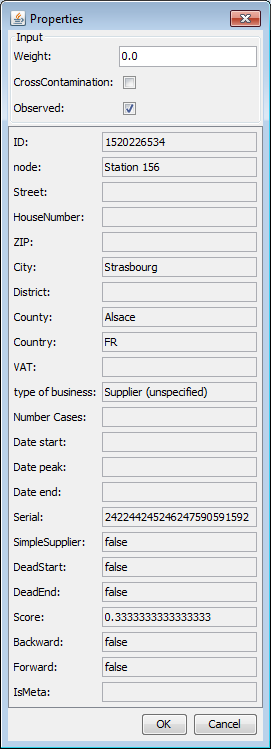
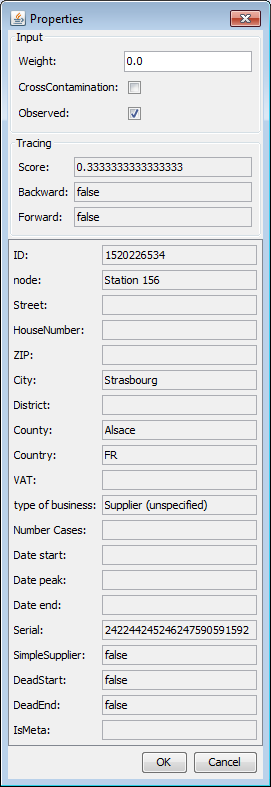
workflow_2_DE committed

Changed region(s): [[0.0, 0.0, 1.0, 0.9826]]

diff --git a/GitHubPages/documents/foodchainlab_workflow_2/workflow_2_DE.tex b/GitHubPages/documents/foodchainlab_workflow_2/workflow_2_DE.tex
@@ -1,0 +1,155 @@
+\documentclass{beamer}
+
+\usepackage[utf8]{inputenc}
+\usepackage{hyperref}
+
+\usetheme{Berkeley}
+\beamertemplatenavigationsymbolsempty
+\setbeamertemplate{headline}{}
+ 
+\title{Erstellen eines Workflows in FoodChain-Lab 2}
+\date{}
+ 
+\begin{document}
+\maketitle
+
+\section{Aufgaben}
+\begin{frame}
+	\begin{itemize}
+		\item Nutzen sie den \textbf{Tracing View} um das Liefernetz in einer übersichtlichen Art und Weise darzustellen.
+		\item Nutzen sie das \textbf{Default Highlighting} zur farblichen Visualisierung.
+		\item Visualisieren sie den Forward- und Backward-Trace von einer beliebigen Station.
+	\end{itemize}
+\end{frame}
+ 
+\section{1}
+\begin{frame}
+	\begin{center}
+  		\includegraphics[height=0.5\textheight]{1.png}
+	\end{center}
+	\begin{itemize}
+		\item Dies ist der zweite Teil des Tutorials.
+		\item Sie können den Workflow aus Teil 1 entweder selber erstellen oder hier herunterladen: \url{https://github.com/SiLeBAT/BfROpenLabResources/raw/master/GitHubPages/workflows/My_First_Workflow.zip}.
+		\item Machen sie einen Doppelklick auf den \textbf{Tracing View} um den Dialog zu öffnen.
+	\end{itemize}
+\end{frame}
+
+\section{2}
+\begin{frame}
+	\begin{center}
+  		\includegraphics[height=0.6\textheight]{2.png}
+	\end{center}
+	\begin{itemize}
+		\item Wenn sie den \textbf{Tracing View} zum ersten Mal öffnen, werden sie bemerken, dass sich die Stationen des Graphs bewegen. Dies liegt daran, dass der Layout-Prozess im Gange ist.
+	\end{itemize}
+\end{frame}
+
+\section{3}
+\begin{frame}
+	\begin{center}
+  		\includegraphics[height=0.6\textheight]{3.png}
+	\end{center}
+	\begin{itemize}
+		\item Wenn der Layout-Prozess beendet ist, wählen sie "TRANSFORMING" als \textbf{Editing Mode} and zoomen sie bis sie den ganzen Graph sehen können (Zoomen funktioniert wie in Google Maps).
+	\end{itemize}
+\end{frame}
+
+\section{4}
+\begin{frame}
+	\begin{center}
+  		\includegraphics[height=0.6\textheight]{4.png}
+	\end{center}
+	\begin{itemize}
+		\item Machen sie einen Rechtsklick in den Graph um das Kontextmenü zu öffnen und wählen sie \textbf{Set default Highlighting}.
+		\item Beim Highlighting werden bestimmte Attribute von Stationen/Lieferungen mit Hilfe von Farben und Größen visualisiert.
+	\end{itemize}
+\end{frame}
+
+\section{5}
+\begin{frame}
+	\begin{center}
+  		\includegraphics[width=0.9\textwidth]{5.png}
+	\end{center}
+	\begin{itemize}
+		\item Im Dialog wählen sie \textbf{Yes}.
+	\end{itemize}
+\end{frame}
+
+\section{6}
+\begin{frame}
+	\begin{center}
+  		\includegraphics[height=0.6\textheight]{6.png}
+	\end{center}
+	\begin{itemize}
+		\item Sie werden bemerken, dass drei Station nun rot gefärbt sind und manche Stationen größer sind als andere.
+		\item Die roten Stationen sind die Supermärkte, bei denen wir das Gewicht auf "1" gesetzt haben.
+		\item Die Größe jeder Station basiert nun auf ihrem "Score".
+	\end{itemize}
+\end{frame}
+
+\section{7}
+\begin{frame}
+	\begin{center}
+  		\includegraphics[height=0.6\textheight]{7.png}
+	\end{center}
+	\begin{itemize}
+		\item Aktivieren sie \textbf{Show Legend} um eine Legende für die benutzen Farben zu erhalten.
+	\end{itemize}
+\end{frame}
+
+\section{8}
+\begin{frame}
+	\begin{center}
+  		\includegraphics[height=0.6\textheight]{8.png}
+	\end{center}
+	\begin{itemize}
+		\item Nun können wir eine Station als "Observed" markieren um uns ihren Trace anzeigen zu lassen.
+		\item Setzen sie "PICKING" als \textbf{Editing Mode} and machen sie einen Doppelklick auf eine beliebige Station.
+		\item Wir haben auf die Station im roten Kreis geklickt.
+	\end{itemize}
+\end{frame}
+
+\section{9}
+\begin{frame}
+	\begin{center}
+  		\includegraphics[height=0.6\textheight]{9.png}
+	\end{center}
+	\begin{itemize}
+		\item Ein Dialog mit allen Attributen der gewählten Station erscheint.
+		\item Oben im Dialog können sie die Werte für "Weight", "Cross Contamination" und "Observed" verändern.		
+	\end{itemize}
+\end{frame}
+
+\section{10}
+\begin{frame}
+	\begin{center}
+  		\includegraphics[height=0.6\textheight]{10.png}
+	\end{center}
+	\begin{itemize}
+		\item Aktivieren sie \textbf{Observed} und klicken sie \textbf{OK}.
+	\end{itemize}
+\end{frame}
+
+\section{11}
+\begin{frame}
+	\begin{center}
+  		\includegraphics[height=0.6\textheight]{11.png}
+	\end{center}
+	\begin{itemize}
+		\item Alle Stationen vom Forward-Trace sind orange gefärbt and die Stationen vom Backward-Trace sind lila.
+		\item Die Lieferungen werden nicht gefärbt solange die Option \textbf{Join Deliveries} aktiviert ist.
+	\end{itemize}
+\end{frame}
+
+\section{12}
+\begin{frame}
+	\begin{center}
+  		\includegraphics[height=0.6\textheight]{12.png}
+	\end{center}
+	\begin{itemize}
+		\item Deaktivieren sie \textbf{Join Deliveries}, damit jede Lieferung als einzelner Pfeil dargestellt wird.
+		\item Nun sehen sie, dass auch die Lieferungen vom Forward-/Backward-Trace gefärbt sind.
+	\end{itemize}
+\end{frame}
+
+\end{document}

diff --git a/GitHubPages/documents/foodchainlab_workflow_2/workflow_2.tex b/GitHubPages/documents/foodchainlab_workflow_2/workflow_2.tex
@@ -103,7 +103,7 @@
   		\includegraphics[height=0.6\textheight]{8.png}
 	\end{center}
 	\begin{itemize}
-		\item Now we can obeserve a station to see its delivery trace.
+		\item Now we can observe a station to see its delivery trace.
 		\item Set "PICKING" as \textbf{Editing Mode} and double click on any station.
 		\item We clicked on the station in the red circle.
 	\end{itemize}
